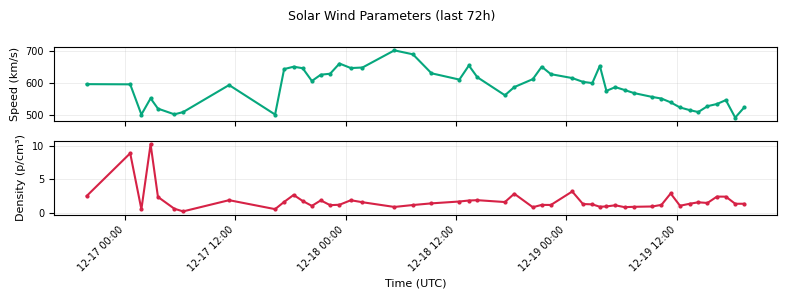
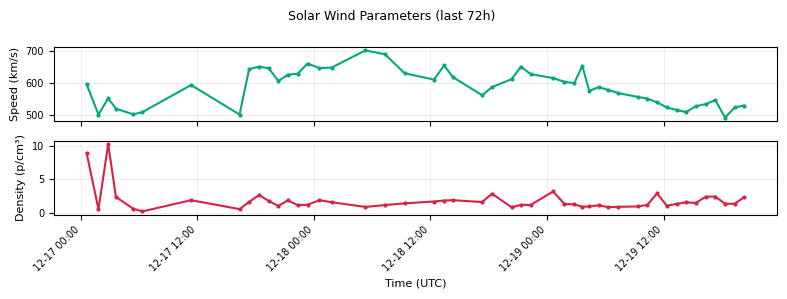
Vault Narrator: Auto-update 2025-12-19 21:05 UTC

diff --git a/LATEST_VAULT_STATUS.md b/LATEST_VAULT_STATUS.md
@@ -1,24 +1,26 @@
 # 🔐 VAULT STATUS REPORT
 
-**Generated:** 2025-12-19 20:15 UTC  
+**Generated:** 2025-12-19 21:05 UTC  
 **Data Source:** `data/cme_heartbeat_log_2025_12.csv`
 
 ---
 
 ## ⚡ CURRENT STATUS: ACTIVE
 
-**Latest χ = 0.15 Streak Count:** 1 consecutive readings  
-**Last Lock Timestamp:** 2025-12-19 19:20:00 UTC  
+**Latest χ = 0.15 Streak Count:** 2 consecutive readings  
+**Last Lock Timestamp:** 2025-12-19 20:19:00 UTC  
+**First Lock in Streak:** 2025-12-19 19:20:00 UTC  
+**Streak Duration:** 1.0 hours  
 
 **Latest Solar Wind Conditions:**  
-- Density: 1.33 p/cm³  
-- Speed: 522.7 km/s  
+- Density: 2.32 p/cm³  
+- Speed: 528.5 km/s  
 
 ---
 
 ## 🌞 NOAA SPACE WEATHER SUMMARIES
 
-- [SRS Report](reports/latest_srs.md) (fetched: 2025-12-19 20:14 UTC)  
+- [SRS Report](reports/latest_srs.md) (fetched: 2025-12-19 21:04 UTC)  
 - F10.7 Report: *not available*  
 
 ---
@@ -39,7 +41,6 @@
 
 | Time (UTC)          | χ Amplitude | Density (p/cm³) | Speed (km/s) | χ Status |
 |---------------------|-------------|-----------------|--------------|----------|
-| 2025-12-18 23:18:00 | 0.1500 | — | — | ✅ LOCK |
 | 2025-12-19 00:38:00 | 0.1500 | 3.18 | 615.2 | ✅ LOCK |
 | 2025-12-19 01:48:00 | 0.1500 | 1.29 | 603.2 | ✅ LOCK |
 | 2025-12-19 02:49:00 | 0.1500 | 1.24 | 599.3 | ✅ LOCK |
@@ -59,6 +60,7 @@
 | 2025-12-19 17:20:00 | 0.1500 | 2.40 | 545.6 | ✅ LOCK |
 | 2025-12-19 18:21:00 | 0.1427 | 1.33 | 490.4 | — |
 | 2025-12-19 19:20:00 | 0.1500 | 1.33 | 522.7 | ✅ LOCK |
+| 2025-12-19 20:19:00 | 0.1500 | 2.32 | 528.5 | ✅ LOCK |
 
 ---
 
